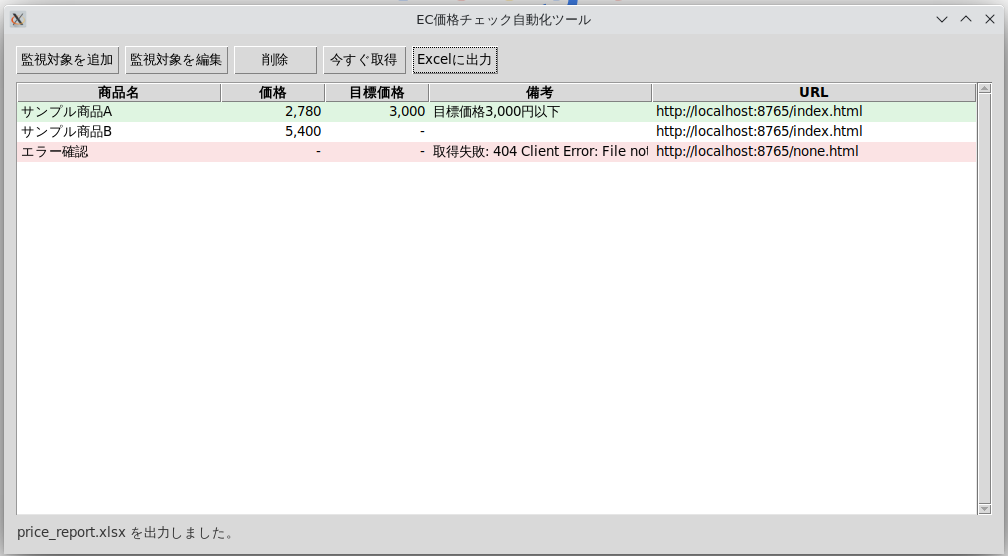
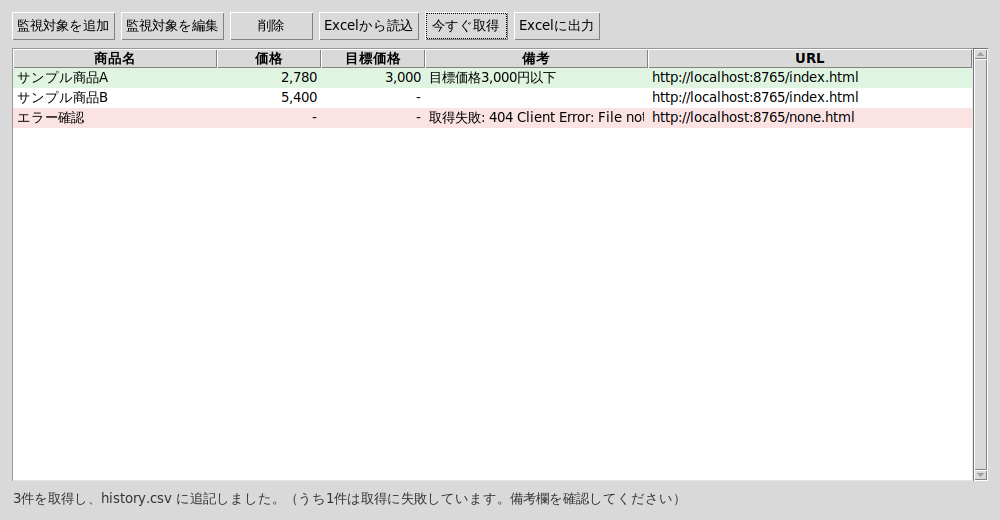
Add Excel target template, GUI import, and release packaging script

Changed region(s): [[0.0, 0.0, 1.0, 1.0]]

diff --git a/excel_template.py b/excel_template.py
@@ -1,0 +1,72 @@
+"""監視対象をExcelで管理するためのテンプレート生成と読み込み。"""
+
+from __future__ import annotations
+
+from pathlib import Path
+
+from openpyxl import Workbook, load_workbook
+from openpyxl.styles import Alignment, Font, PatternFill
+from openpyxl.worksheet.worksheet import Worksheet
+
+from tracker import Target
+
+SHEET_TITLE = "監視対象"
+HEADERS = ["商品名", "商品ページURL", "価格のセレクタ", "目標価格"]
+HEADER_FILL = PatternFill("solid", fgColor="1F3864")
+COLUMN_WIDTHS = [24, 52, 28, 12]
+SAMPLE_ROWS = [
+    ["サンプル商品A", "https://example.com/items/1", ".price", 3000],
+    ["サンプル商品B", "https://example.com/items/2", "#item-price span", None],
+]
+HINTS = [
+    "商品名: 一覧やレポートに表示される名前です。自由に付けてください。",
+    "商品ページURL: 価格が表示されている商品ページのURLです。",
+    "価格のセレクタ: Chromeで価格を右クリック→検証→Copy→Copy selector で取得できます。",
+    "目標価格: 数値を入れるとその金額以下になった行が緑色で強調されます。空欄でも構いません。",
+    "3行目以降にご自身の商品を追記し、サンプル行は削除してください。",
+]
+
+
+def build_template(output: Path) -> Path:
+    """記入例と入力ガイドを含む監視対象テンプレートを書き出す。"""
+    workbook = Workbook()
+    sheet = workbook.active
+    sheet.title = SHEET_TITLE
+    sheet.append(HEADERS)
+    for row in SAMPLE_ROWS:
+        sheet.append(row)
+
+    for index, width in enumerate(COLUMN_WIDTHS, start=1):
+        sheet.column_dimensions[sheet.cell(row=1, column=index).column_letter].width = width
+    for cell in sheet[1]:
+        cell.font = Font(bold=True, color="FFFFFF")
+        cell.fill = HEADER_FILL
+        cell.alignment = Alignment(horizontal="center")
+    sheet.freeze_panes = "A2"
+
+    guide = workbook.create_sheet("記入ガイド")
+    guide.column_dimensions["A"].width = 100
+    for hint in HINTS:
+        guide.append([hint])
+
+    workbook.save(output)
+    return output
+
+
+def load_targets_from_excel(path: Path) -> list[Target]:
+    """テンプレートに記入された監視対象を読み込む。空行と記入例の行は無視する。"""
+    workbook = load_workbook(path, data_only=True)
+    sheet = workbook[SHEET_TITLE] if SHEET_TITLE in workbook.sheetnames else workbook.worksheets[0]
+    return [target for target in _iter_targets(sheet)]
+
+
+def _iter_targets(sheet: Worksheet):
+    for name, url, selector, threshold in sheet.iter_rows(min_row=2, max_col=4, values_only=True):
+        if not name or not url or not selector:
+            continue
+        yield Target(
+            name=str(name).strip(),
+            url=str(url).strip(),
+            selector=str(selector).strip(),
+            threshold=int(threshold) if threshold not in (None, "") else None,
+        )

diff --git a/packaging/build_release.py b/packaging/build_release.py
@@ -1,0 +1,89 @@
+"""BOOTH配布用のZipを作るスクリプト。
+
+Windows上で実行すると、PyInstallerでexeを作り、README.txtとExcelテンプレートを
+まとめた dist/ec-price-tracker-gui.zip を作成します。
+
+    python packaging/build_release.py
+
+exeを作らずに同梱ファイルだけ確認したい場合は --skip-exe を付けます。
+"""
+
+from __future__ import annotations
+
+import argparse
+import shutil
+import subprocess
+import sys
+import zipfile
+from pathlib import Path
+
+ROOT = Path(__file__).resolve().parent.parent
+DIST = ROOT / "dist"
+STAGE = ROOT / "build" / "release"
+APP_NAME = "ec-price-tracker"
+ZIP_NAME = "ec-price-tracker-gui.zip"
+TEMPLATE_NAME = "監視対象テンプレート.xlsx"
+
+sys.path.insert(0, str(ROOT))
+
+from excel_template import build_template  # noqa: E402
+
+
+def build_exe() -> Path:
+    subprocess.run(
+        [
+            sys.executable,
+            "-m",
+            "PyInstaller",
+            "--onefile",
+            "--windowed",
+            "--name",
+            APP_NAME,
+            str(ROOT / "gui.py"),
+        ],
+        cwd=ROOT,
+        check=True,
+    )
+    exe = DIST / f"{APP_NAME}.exe"
+    return exe if exe.exists() else DIST / APP_NAME
+
+
+def stage_files(exe: Path | None) -> list[Path]:
+    if STAGE.exists():
+        shutil.rmtree(STAGE)
+    STAGE.mkdir(parents=True)
+
+    files = [
+        shutil.copy2(ROOT / "packaging" / "README.txt", STAGE / "README.txt"),
+        shutil.copy2(ROOT / "targets.example.json", STAGE / "targets.example.json"),
+        build_template(STAGE / TEMPLATE_NAME),
+    ]
+    if exe is not None:
+        files.append(shutil.copy2(exe, STAGE / exe.name))
+    return [Path(path) for path in files]
+
+
+def make_zip(files: list[Path]) -> Path:
+    DIST.mkdir(exist_ok=True)
+    archive = DIST / ZIP_NAME
+    with zipfile.ZipFile(archive, "w", zipfile.ZIP_DEFLATED) as zf:
+        for path in files:
+            zf.write(path, path.name)
+    return archive
+
+
+def main(argv: list[str] | None = None) -> int:
+    parser = argparse.ArgumentParser(description="BOOTH配布用のZipを作成します。")
+    parser.add_argument("--skip-exe", action="store_true", help="PyInstallerを実行せず同梱ファイルのみZip化")
+    args = parser.parse_args(argv)
+
+    exe = None if args.skip_exe else build_exe()
+    archive = make_zip(stage_files(exe))
+    print(f"{archive} を作成しました。")
+    if exe is None:
+        print("exeは含まれていません。Windows上で --skip-exe なしで実行してください。")
+    return 0
+
+
+if __name__ == "__main__":
+    raise SystemExit(main())

diff --git a/main.py b/main.py
@@ -3,6 +3,8 @@
 使い方:
     python main.py --config targets.json --output history.csv
     python main.py --config targets.json --output history.csv --report report.xlsx
+    python main.py --make-excel-template 監視対象テンプレート.xlsx
+    python main.py --from-excel 監視対象テンプレート.xlsx
 """
 
 from __future__ import annotations
@@ -11,8 +13,9 @@ import argparse
 import sys
 from pathlib import Path
 
+from excel_template import build_template, load_targets_from_excel
 from report import build_report
-from tracker import append_records, fetch_all, load_targets
+from tracker import append_records, fetch_all, load_targets, save_targets
 
 
 def parse_args(argv: list[str] | None = None) -> argparse.Namespace:
@@ -20,11 +23,31 @@ def parse_args(argv: list[str] | None = None) -> argparse.Namespace:
     parser.add_argument("--config", type=Path, default=Path("targets.json"), help="監視対象の定義ファイル")
     parser.add_argument("--output", type=Path, default=Path("history.csv"), help="履歴CSVの出力先")
     parser.add_argument("--report", type=Path, help="指定すると価格推移グラフ付きExcelレポートを出力")
+    parser.add_argument("--from-excel", type=Path, help="Excelテンプレートから --config のJSONを作成して終了")
+    parser.add_argument("--make-excel-template", type=Path, help="監視対象テンプレートのxlsxを作成して終了")
     return parser.parse_args(argv)
 
 
 def main(argv: list[str] | None = None) -> int:
     args = parse_args(argv)
+
+    if args.make_excel_template is not None:
+        build_template(args.make_excel_template)
+        print(f"テンプレートを {args.make_excel_template} に作成しました。")
+        return 0
+
+    if args.from_excel is not None:
+        if not args.from_excel.exists():
+            print(f"Excelファイルが見つかりません: {args.from_excel}", file=sys.stderr)
+            return 1
+        targets = load_targets_from_excel(args.from_excel)
+        if not targets:
+            print("Excelから監視対象を読み取れませんでした。", file=sys.stderr)
+            return 1
+        save_targets(targets, args.config)
+        print(f"{len(targets)}件を {args.config} に書き出しました。")
+        return 0
+
     if not args.config.exists():
         print(f"設定ファイルが見つかりません: {args.config}", file=sys.stderr)
         return 1

diff --git a/gui.py b/gui.py
@@ -9,8 +9,9 @@ from __future__ import annotations
 import threading
 import tkinter as tk
 from pathlib import Path
-from tkinter import messagebox, simpledialog, ttk
+from tkinter import filedialog, messagebox, simpledialog, ttk
 
+from excel_template import load_targets_from_excel
 from report import build_report
 from tracker import PriceRecord, Target, append_records, fetch_all, load_targets, save_targets
 
@@ -87,6 +88,7 @@ class App(ttk.Frame):
             ("監視対象を追加", self.add_target),
             ("監視対象を編集", self.edit_target),
             ("削除", self.delete_target),
+            ("Excelから読込", self.import_from_excel),
             ("今すぐ取得", self.fetch_now),
             ("Excelに出力", self.export_report),
         )
@@ -203,6 +205,31 @@ class App(ttk.Frame):
         self._save_config()
         self._refresh_tree()
         self.status.set(f"「{target.name}」を削除しました。")
+
+    def import_from_excel(self) -> None:
+        path = filedialog.askopenfilename(
+            title="監視対象テンプレートを選択",
+            filetypes=[("Excelファイル", "*.xlsx"), ("すべて", "*.*")],
+        )
+        if not path:
+            return
+        try:
+            targets = load_targets_from_excel(Path(path))
+        except (OSError, ValueError, KeyError) as exc:
+            messagebox.showerror("読み込みエラー", f"Excelを読み込めません:\n{exc}")
+            return
+        if not targets:
+            messagebox.showinfo("対象なし", "「監視対象」シートに商品名・URL・セレクタが記入されていません。")
+            return
+        if self.targets and not messagebox.askyesno(
+            "入れ替えの確認", f"現在の{len(self.targets)}件を、Excelの{len(targets)}件で置き換えますか？"
+        ):
+            return
+        self.targets = targets
+        self.latest.clear()
+        self._save_config()
+        self._refresh_tree()
+        self.status.set(f"Excelから{len(targets)}件を読み込み、{CONFIG_PATH} に保存しました。")
 
     def fetch_now(self) -> None:
         if not self.targets:

diff --git a/tracker.py b/tracker.py
@@ -5,6 +5,7 @@ from __future__ import annotations
 import csv
 import json
 import re
+import time
 from dataclasses import dataclass
 from datetime import datetime
 from pathlib import Path
@@ -15,6 +16,7 @@ from bs4 import BeautifulSoup
 
 USER_AGENT = "ec-price-tracker-lite/0.1 (+https://github.com/syunnjack/ec-price-tracker-lite)"
 REQUEST_TIMEOUT = 15
+REQUEST_INTERVAL = 1.0
 CSV_HEADER = ["checked_at", "name", "url", "price", "note"]
 CSV_ENCODING = "utf-8-sig"
 PRICE_PATTERN = re.compile(r"\d[\d,]*")
@@ -100,8 +102,14 @@ def fetch_price(target: Target, session: requests.Session) -> PriceRecord:
 
 
 def fetch_all(targets: Iterable[Target]) -> list[PriceRecord]:
+    """対象サイトに連続で負荷をかけないよう、1件ごとに間隔を空けて取得する。"""
+    records: list[PriceRecord] = []
     with create_session() as session:
-        return [fetch_price(target, session) for target in targets]
+        for index, target in enumerate(targets):
+            if index:
+                time.sleep(REQUEST_INTERVAL)
+            records.append(fetch_price(target, session))
+    return records
 
 
 def append_records(records: Iterable[PriceRecord], output: Path) -> None:

diff --git a/README.md b/README.md
@@ -10,6 +10,7 @@ ECサイトの商品ページから価格を取得し、CSVに履歴を蓄積す
 - 取得結果を `history.csv` に追記（Excelでそのまま開けるUTF-8 BOM付き）
 - 目標価格を設定すると、下回った行に注記を付与
 - 価格推移グラフ付きのExcelレポート（.xlsx）を出力
+- 監視対象をExcelテンプレートで書いて設定ファイルに変換
 - GUI（コマンド操作なし）でも同じ操作が可能
 
 ## セットアップ
@@ -53,6 +54,15 @@ python main.py --config targets.json --output history.csv --report price_report.
 python -c "from pathlib import Path; from report import build_report; build_report(Path('history.csv'), Path('price_report.xlsx'))"
 ```
 
+### Excelテンプレートで監視対象を管理
+
+JSONを直接編集したくない場合は、Excelに一覧で書いてから設定ファイルに変換できます。
+
+```bash
+python main.py --make-excel-template 監視対象テンプレート.xlsx  # 記入例付きのテンプレートを作成
+python main.py --from-excel 監視対象テンプレート.xlsx --config targets.json  # 記入内容をJSONに変換
+```
+
 ## GUI版
 
 コマンド操作をしたくない場合や、非エンジニアのメンバーに渡す場合はGUIを使います。
@@ -77,6 +87,12 @@ pyinstaller --onefile --windowed --name ec-price-tracker gui.py
 ```
 
 `dist/ec-price-tracker.exe` が生成されます。`targets.json` と `history.csv` は実行時のカレントディレクトリに作られるため、exeと同じフォルダに置いて運用してください。
+
+配布用のZip（exe・利用者向けREADME.txt・Excelテンプレート・設定例）はWindows上で次を実行するとまとめて作成できます。
+
+```bash
+python packaging/build_release.py  # dist/ec-price-tracker-gui.zip を作成（--skip-exe でexe抜きの確認も可能）
+```
 
 ### 設定ファイル
 
